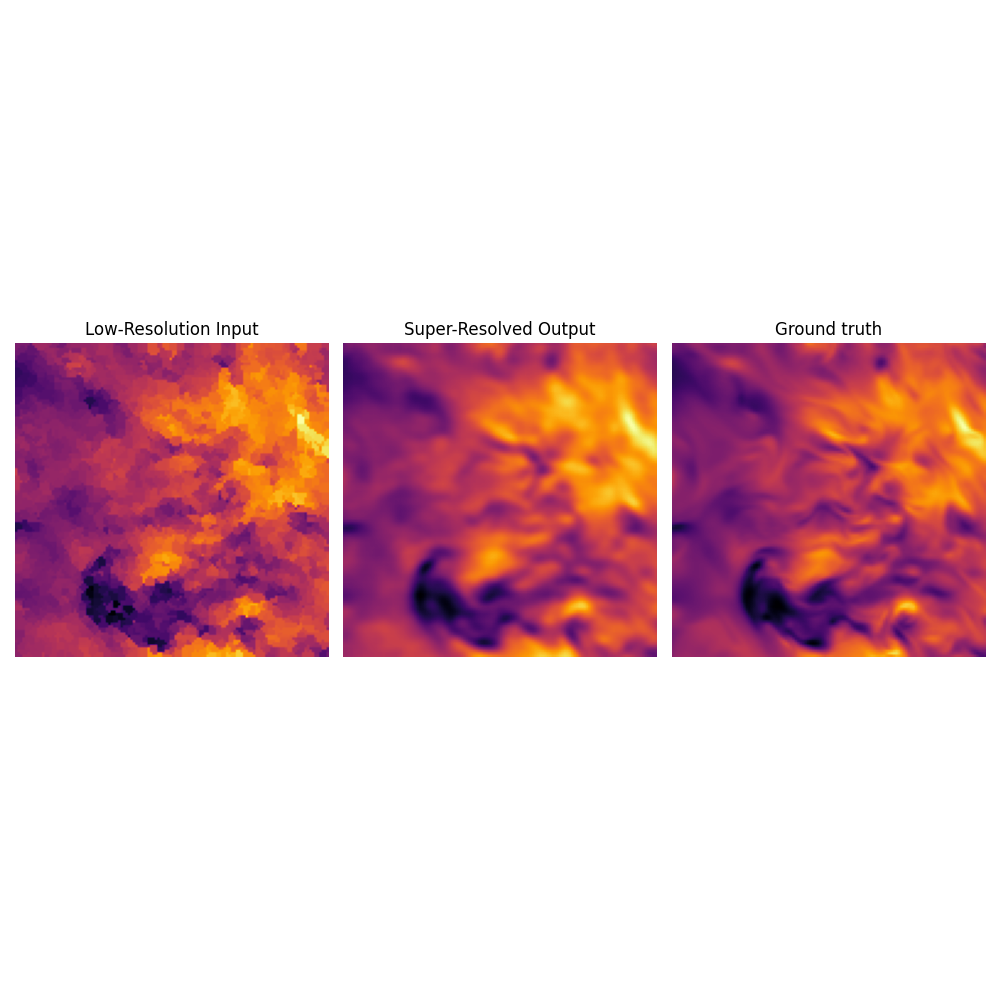
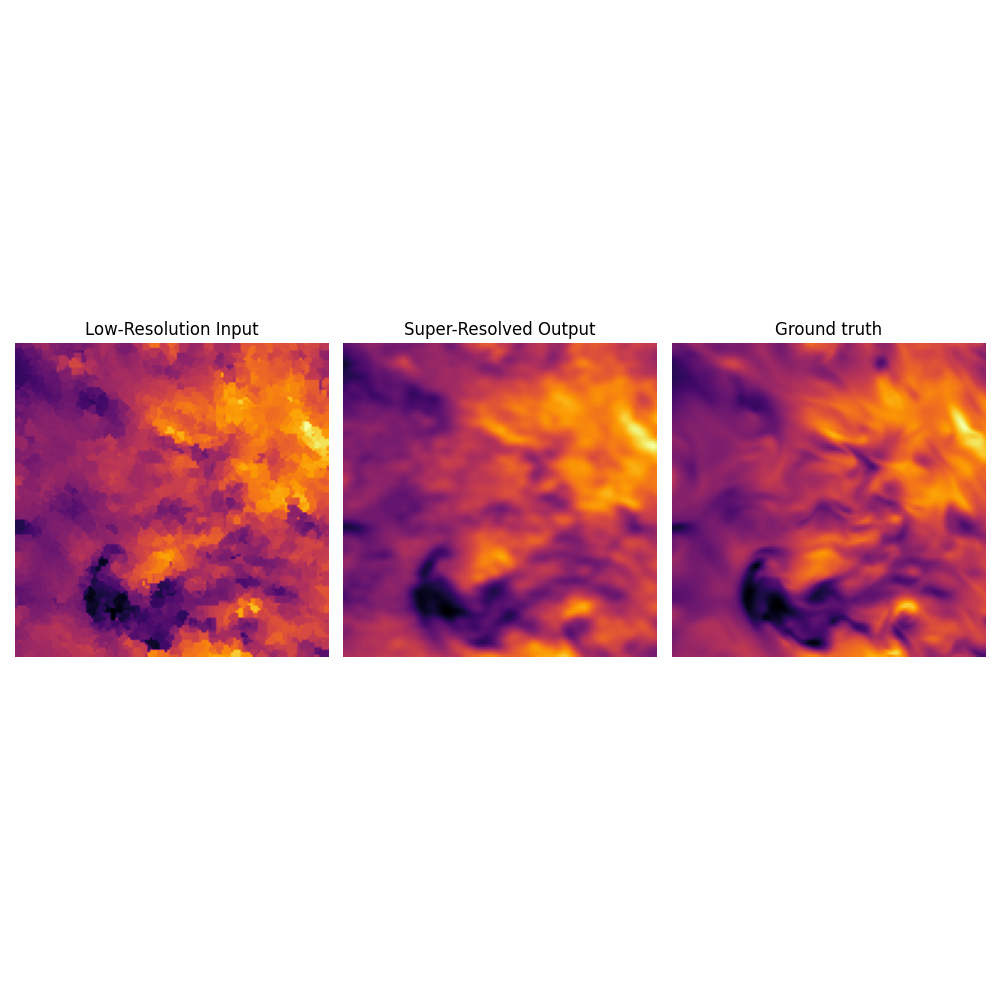
Finished Latent FM

diff --git a/trainer_latent_direct_route.py b/trainer_latent_direct_route.py
@@ -11,8 +11,9 @@ from conflictfree.grad_operator import ConFIGOperator
 
 from dataset import IsotropicTurbulenceDataset, BigIsotropicTurbulenceDataset
 import utils
-from model_latent import LatentModel
 from my_config_length import UniProjectionLength
+from model_simple import Model_base
+from model_ae import CVAE_3D_II
 from model_vqvae import VQVAE, VAE, AE
 
 wandb.login(key="f4a726b2fe7929990149e82fb88da423cfa74e46")
@@ -51,9 +52,9 @@ def create_dataloader(low_res_images, high_res_images, batch_size):
     return DataLoader(dataset, batch_size=batch_size, shuffle=False)
 
 # Define the training function
-def train_flow_matching(config):
+def train_flow_matching(config, config_ae):
     # Load the dataset
-    dataset = IsotropicTurbulenceDataset(dt=config.Data.dt, grid_size=config.Data.grid_size, crop=config.Data.crop, seed=config.Data.seed, size=config.Data.size, batch_size=config.Training.batch_size)
+    dataset = IsotropicTurbulenceDataset(dt=config_ae.Data.dt, grid_size=config_ae.Data.grid_size, crop=config_ae.Data.crop, seed=config_ae.Data.seed, size=config_ae.Data.size, batch_size=config.Training.batch_size)
     #dataset = BigIsotropicTurbulenceDataset("/mnt/data4/pbdl-datasets-local/3d_jhtdb/isotropic1024coarse.hdf5", sim_group='sim0', norm=True, size=None, train_ratio=0.8, val_ratio=0.1, test_ratio=0.1, batch_size=config.Training.batch_size)
 
     # Update the dataloaders
@@ -61,15 +62,19 @@ def train_flow_matching(config):
     val_loader = dataset.val_loader
     test_loader = dataset.test_loader
     
-    #ae = VQVAE(input_size=config.Model.in_channels, hidden_size=config.Model.hidden_size, depth=config.Model.depth, num_res_block=config.Model.num_res_block, res_size=config.Model.res_size, embedding_size=config.Model.embedding_size,
+    # Load the pre-trained autoencoder
+    #model = VQVAE(input_size=config.Model.in_channels, hidden_size=config.Model.hidden_size, depth=config.Model.depth, num_res_block=config.Model.num_res_block, res_size=config.Model.res_size, embedding_size=config.Model.embedding_size,
     #             num_embedding=config.Model.num_embedding, device=config.device).to(config.device)
-    ae = VAE(input_size=config.Model.in_channels, hidden_size=config.Model.hidden_size, depth=config.Model.depth, num_res_block=config.Model.num_res_block, res_size=config.Model.res_size, embedding_size=config.Model.embedding_size,
-                device=config.device).to(config.device)
-    #ae = VAE(input_size=config.Model.in_channels, hidden_size=config.Model.hidden_size, depth=config.Model.depth, num_res_block=config.Model.num_res_block, res_size=config.Model.res_size, embedding_size=config.Model.embedding_size,
-    #            device=config.device).to(config.device)
-
+    #model = AE(input_size=config.Model.in_channels, image_size=config.Data.grid_size, hidden_size=config.Model.hidden_size, depth=config.Model.depth, num_res_block=config.Model.num_res_block, res_size=config.Model.res_size, embedding_size=config.Model.embedding_size,
+    #            device=config.device, z_dim=config.Model.z_dim).to(config.device)
+    ae = VAE(input_size=config_ae.Model.in_channels, hidden_size=config_ae.Model.hidden_size, depth=config_ae.Model.depth, num_res_block=config_ae.Model.num_res_block, res_size=config_ae.Model.res_size, embedding_size=config_ae.Model.embedding_size,
+                device=config_ae.device).to(config.device)
+    ae.load_state_dict(torch.load(config_ae.Model.ae_path, map_location=config.device))
+    ae.eval()
+    for param in ae.parameters():
+        param.requires_grad = False
     # Initialize the model
-    model = LatentModel(config)
+    model = Model_base(config)
     model = model.to(config.device)
 
     # Convert learning_rate and divergence_loss_weight to float if they are strings
@@ -119,8 +124,10 @@ def train_flow_matching(config):
             x0 = torch.tensor(batch_X) if isinstance(batch_X, np.ndarray) else batch_X
             
             # Apply encoder to x0 and x1
-            z1 = ae.encode(x1)
-            z0 = ae.encode(x0)
+            mu1, logvar1 = ae.encode(x1)
+            mu0, logvar0 = ae.encode(x0)
+            z1 = ae.reparameterize(mu1, logvar1)
+            z0 = ae.reparameterize(mu0, logvar0)
             
             target = z1 - (1 - config.Training.sigma_min) * z0
             target = target.to(config.device)
@@ -150,8 +157,10 @@ def train_flow_matching(config):
                 x0 = torch.tensor(batch_X) if isinstance(batch_X, np.ndarray) else batch_X
                 
                 # Apply encoder to x0 and x1
-                z1 = ae.encode(x1)
-                z0 = ae.encode(x0)
+                mu1, logvar1 = ae.encode(x1)
+                mu0, logvar0 = ae.encode(x0)
+                z1 = ae.reparameterize(mu1, logvar1)
+                z0 = ae.reparameterize(mu0, logvar0)
                 
                 target = z1 - (1 - config.Training.sigma_min) * z0
                 target = target.to(config.device)
@@ -204,10 +213,15 @@ def train_flow_matching(config):
 if __name__ == "__main__":
     # Load the configuration
     print("Loading config...")
-    with open("configs/config_vqvae.yml", "r") as f:
+    with open("configs/config_lfm.yml", "r") as f:
         config = yaml.safe_load(f)
     config = utils.dict2namespace(config)
     print(config.device)
+    
+    print("Loading config...")
+    with open("configs/config_vqvae.yml", "r") as f:
+        config_ae = yaml.safe_load(f)
+    config_ae = utils.dict2namespace(config_ae)
 
     # Train the model
-    train_flow_matching(config)
+    train_flow_matching(config, config_ae)

diff --git a/inference_latent_direct_route.py b/inference_latent_direct_route.py
@@ -10,16 +10,17 @@ import random
 
 from dataset import IsotropicTurbulenceDataset, BigIsotropicTurbulenceDataset
 import utils
-from model_latent import LatentModel
-from my_config_length import UniProjectionLength
+from model_simple import Model_base
+#from model_ae import Autoencoder
 from model_vqvae import VQVAE, VAE, AE
 
 # Create a folder to save plots
 plot_folder = "generated_plots"
 os.makedirs(plot_folder, exist_ok=True)
 
-def load_latent_fm_model(config, model_path):
-    model = LatentModel(config)
+# Load the trained latent flow matching model
+def load_latent_model(config, model_path):
+    model = Model_base(config)
     model.load_state_dict(torch.load(model_path, map_location=config.device))
     model = model.to(config.device)
     model.eval()
@@ -28,17 +29,15 @@ def load_latent_fm_model(config, model_path):
 def load_ae_model(config):
     ae = VAE(input_size=config.Model.in_channels, hidden_size=config.Model.hidden_size, depth=config.Model.depth, num_res_block=config.Model.num_res_block, res_size=config.Model.res_size, embedding_size=config.Model.embedding_size,
             device=config.device).to(config.device)
-    ae.load_state_dict(torch.load(config.Model.lfm_path, map_location=config.device))
-    ae = model.to(config.device)
+    ae.load_state_dict(torch.load(config.Model.ae_path, map_location=config.device))
+    ae = ae.to(config.device)
     ae.eval()
     return ae
 
 def integrate_ode_and_sample(config, model, x_lr, steps=10):
-    model.eval().requires_grad_(False)
-
     xt = x_lr.to(config.device).float()
     for i, t in enumerate(torch.linspace(0, 1, steps, device=config.device), start=1):
-        print(f"Step {i}/{steps}")
+        #print(f"Step {i}/{steps}")
         pred = model(xt, t.expand(xt.size(0)))
         xt = xt + (1 / steps) * pred
 
@@ -57,13 +56,15 @@ def fm_sparse_experiment(config, model, ae, nsamples, samples_x, samples_y, samp
         x     = samples_x[i].unsqueeze(0).to(config.device)
         y     = samples_y[i].unsqueeze(0).to(config.device)
 
-        z = ae.encode(x)
+        with torch.no_grad():
+            mu1, logvar1 = ae.encode(x)
+            z = ae.reparameterize(mu1, logvar1)
         z_pred = integrate_ode_and_sample(config, model, z, steps=100)
         y_pred = ae.decode(z_pred)
         utils.plot_2d_comparison(x[0, 1, :, :, int(config.Data.grid_size / 2)].cpu().detach().numpy(),
                                  y_pred[0, 1, :, :, int(config.Data.grid_size / 2)].cpu().detach().numpy(),
                                  y[0, 1, :, :, int(config.Data.grid_size / 2)].cpu().detach().numpy(),
-                                 f"super_direct_route_{i}")
+                                 f"super_latent_direct_route_{i}")
 
         losses.append(torch.sqrt(torch.mean((y_pred - y) ** 2)).item())
         residuals.append(torch.sqrt(torch.mean(utils.compute_divergence(y_pred[:, :3, :, :, :])**2)).item())
@@ -81,23 +82,30 @@ def fm_sparse_experiment(config, model, ae, nsamples, samples_x, samples_y, samp
 
 # Main script
 if __name__ == "__main__":
+    # Load the configuration
     print("Loading config...")
-    with open("configs/config_vqvae.yml", "r") as f:
+    with open("configs/config_lfm.yml", "r") as f:
         config = yaml.safe_load(f)
     config = utils.dict2namespace(config)
     print(config.device)
     
+    print("Loading config...")
+    with open("configs/config_vqvae.yml", "r") as f:
+        config_ae = yaml.safe_load(f)
+    config_ae = utils.dict2namespace(config_ae)
+    
+    # Load the trained model
+    print("Loading model...")
+    model = load_latent_model(config, config.Model.save_path)
+    print("Loading autoencoder...")
+    ae = load_ae_model(config_ae)
+    
     print("Loading dataset...")
     num_samples = 10
-    dataset = IsotropicTurbulenceDataset(dt=config.Data.dt, grid_size=config.Data.grid_size, crop=config.Data.crop, seed=config.Data.seed, size=config.Data.size, num_samples=num_samples)
+    dataset = IsotropicTurbulenceDataset(dt=config.Data.dt, grid_size=config_ae.Data.grid_size, crop=config.Data.crop, seed=config.Data.seed, size=config.Data.size, num_samples=num_samples)
     #dataset = BigIsotropicTurbulenceDataset("/mnt/data4/pbdl-datasets-local/3d_jhtdb/isotropic1024coarse.hdf5", sim_group='sim0', norm=True, size=None, train_ratio=0.8, val_ratio=0.1, test_ratio=0.1, batch_size=5, num_samples=num_samples, test=True, grid_size=config.Data.grid_size)
     samples_y = dataset.test_dataset
     perc = 5
     samples_x, samples_ids = utils.interpolate_dataset(samples_y, perc/100)
-
-    print("Loading autoencoder...")
-    ae = load_ae_model(config)
-    print("Loading latent flow matching model...")
-    model = load_latent_fm_model(config, config.Model.save_path)
     
     fm_sparse_experiment(config, model, ae, num_samples, samples_x, samples_y, samples_ids, perc=perc)

diff --git a/inference_latent_super.py b/inference_latent_super.py
@@ -36,12 +36,13 @@ def load_ae_model(config):
 
 # Flow matching interpolation in latent space
 
-def fm_interp_latent(model, z_lr, z_hr, steps):
-    zt = z_lr
+def fm_interp_latent(model, z, z_lr, steps):
+    zt = z
     for i, t in enumerate(torch.linspace(0, 1, steps, device=zt.device, dtype=torch.float32), start=1):
         #print(f"Latent Step {i}/{steps}")
         pred = model(zt, t.expand(zt.size(0)))
-        zt = zt + (1 / steps) * (z_hr - zt + t * pred)
+        zt = zt + (1 / steps) * (z_lr - zt + t * pred)
+        
     return zt
     
 def fm_interp_sparse_experiment_latent(config, config_ae, model, ae, nsamples, samples_x, samples_y, samples_ids, perc):
@@ -54,14 +55,17 @@ def fm_interp_sparse_experiment_latent(config, config_ae, model, ae, nsamples, s
         print(f"Sample {i+1}/{nsamples}")
         x = samples_x[i].unsqueeze(0).to(config.device)
         y = samples_y[i].unsqueeze(0).to(config.device)
+        noise = torch.randn((1, config_ae.Model.in_channels, config_ae.Data.grid_size, config_ae.Data.grid_size, config_ae.Data.grid_size), device=config.device).float()
         # Encode to latent space
         with torch.no_grad():
             mu1, logvar1 = ae.encode(x)
             z_lr = ae.reparameterize(mu1, logvar1)
             mu2, logvar2 = ae.encode(y)
             z_hr = ae.reparameterize(mu2, logvar2)
+            mu3, logvar3 = ae.encode(noise)
+            z_noise = ae.reparameterize(mu3, logvar3)
         # Flow matching in latent space
-        z_pred = fm_interp_latent(model, z_lr, z_hr, steps=10)
+        z_pred = fm_interp_latent(model, z_noise, z_lr, steps=10)
         # Decode back to physical space
         with torch.no_grad():
             y_pred = ae.decode(z_pred)
@@ -236,6 +240,6 @@ if __name__ == "__main__":
     samples_x, samples_ids = utils.interpolate_dataset(samples_y, perc/100)
     
     print("Generating samples (latent FM)...")
-    #fm_interp_sparse_experiment_latent(config, config_ae, model, ae, num_samples, samples_x, samples_y, samples_ids, perc=perc)
-    fm_mask_sparse_experiment_latent(config, config_ae, model, ae, num_samples, samples_x, samples_y, samples_ids, perc)
-    fm_diff_mask_sparse_experiment_latent(config, config_ae, model, ae, num_samples, samples_x, samples_y, samples_ids, perc)
+    fm_interp_sparse_experiment_latent(config, config_ae, model, ae, num_samples, samples_x, samples_y, samples_ids, perc=perc)
+    #fm_mask_sparse_experiment_latent(config, config_ae, model, ae, num_samples, samples_x, samples_y, samples_ids, perc)
+    #fm_diff_mask_sparse_experiment_latent(config, config_ae, model, ae, num_samples, samples_x, samples_y, samples_ids, perc)
